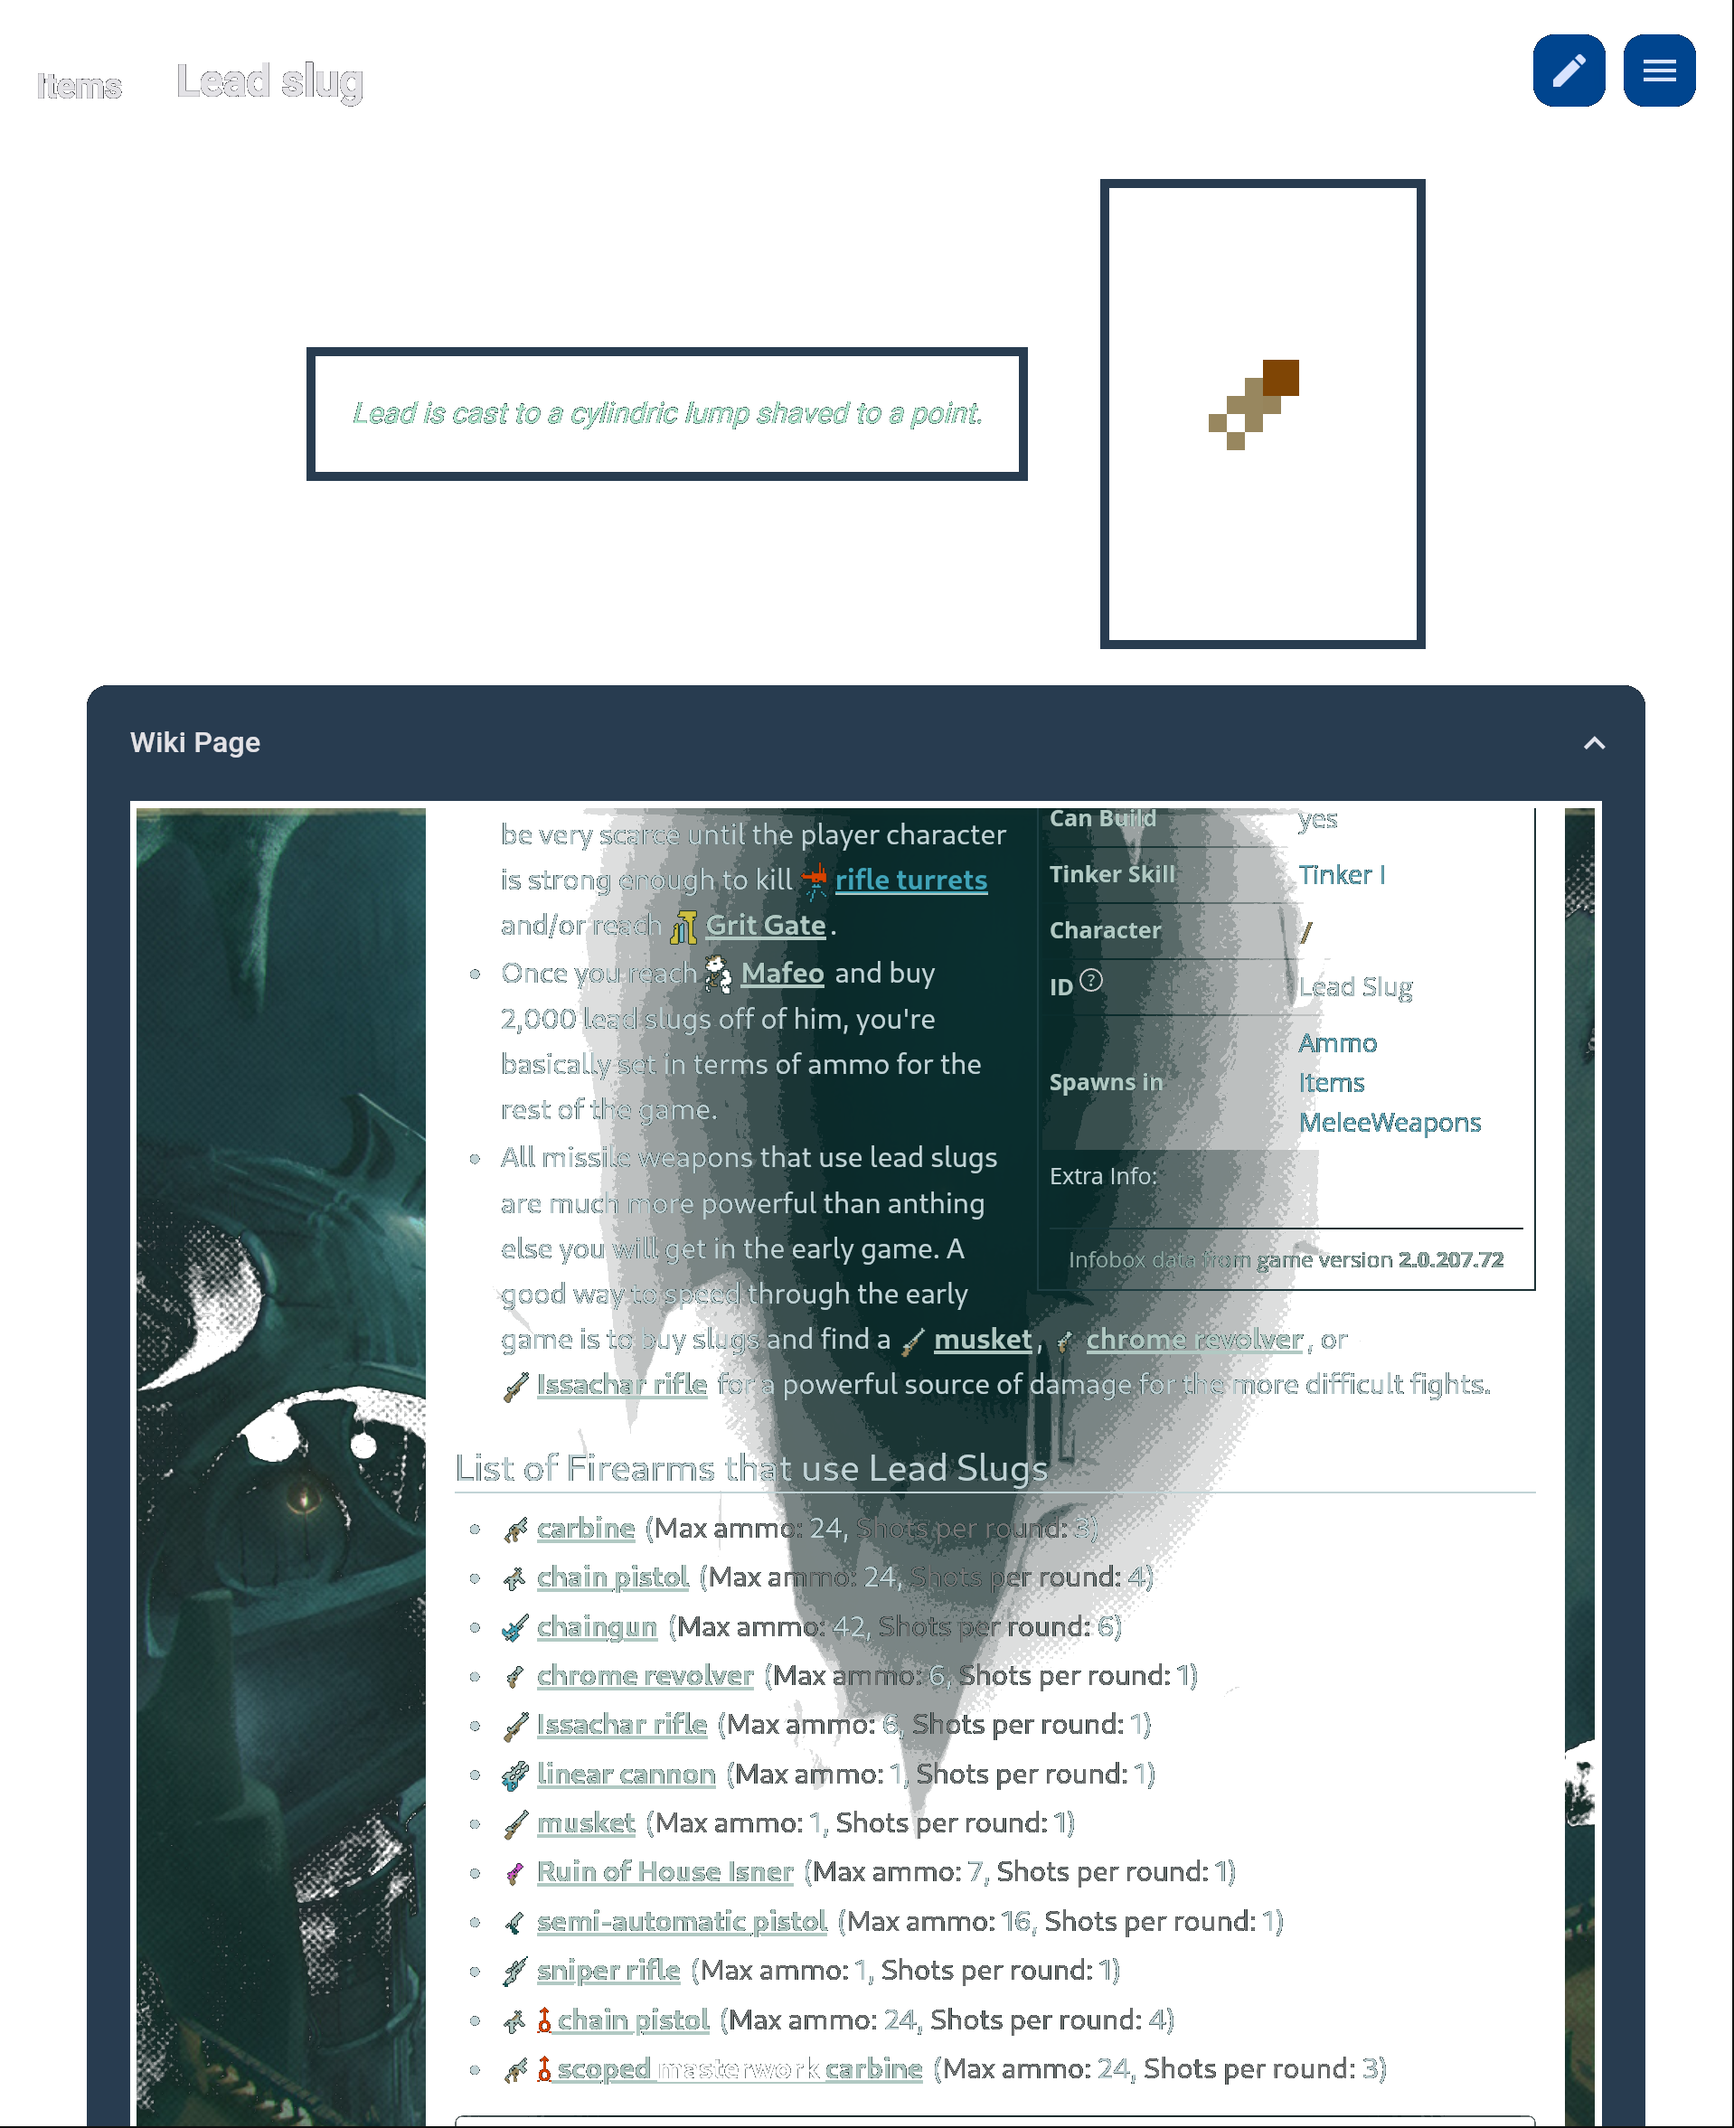
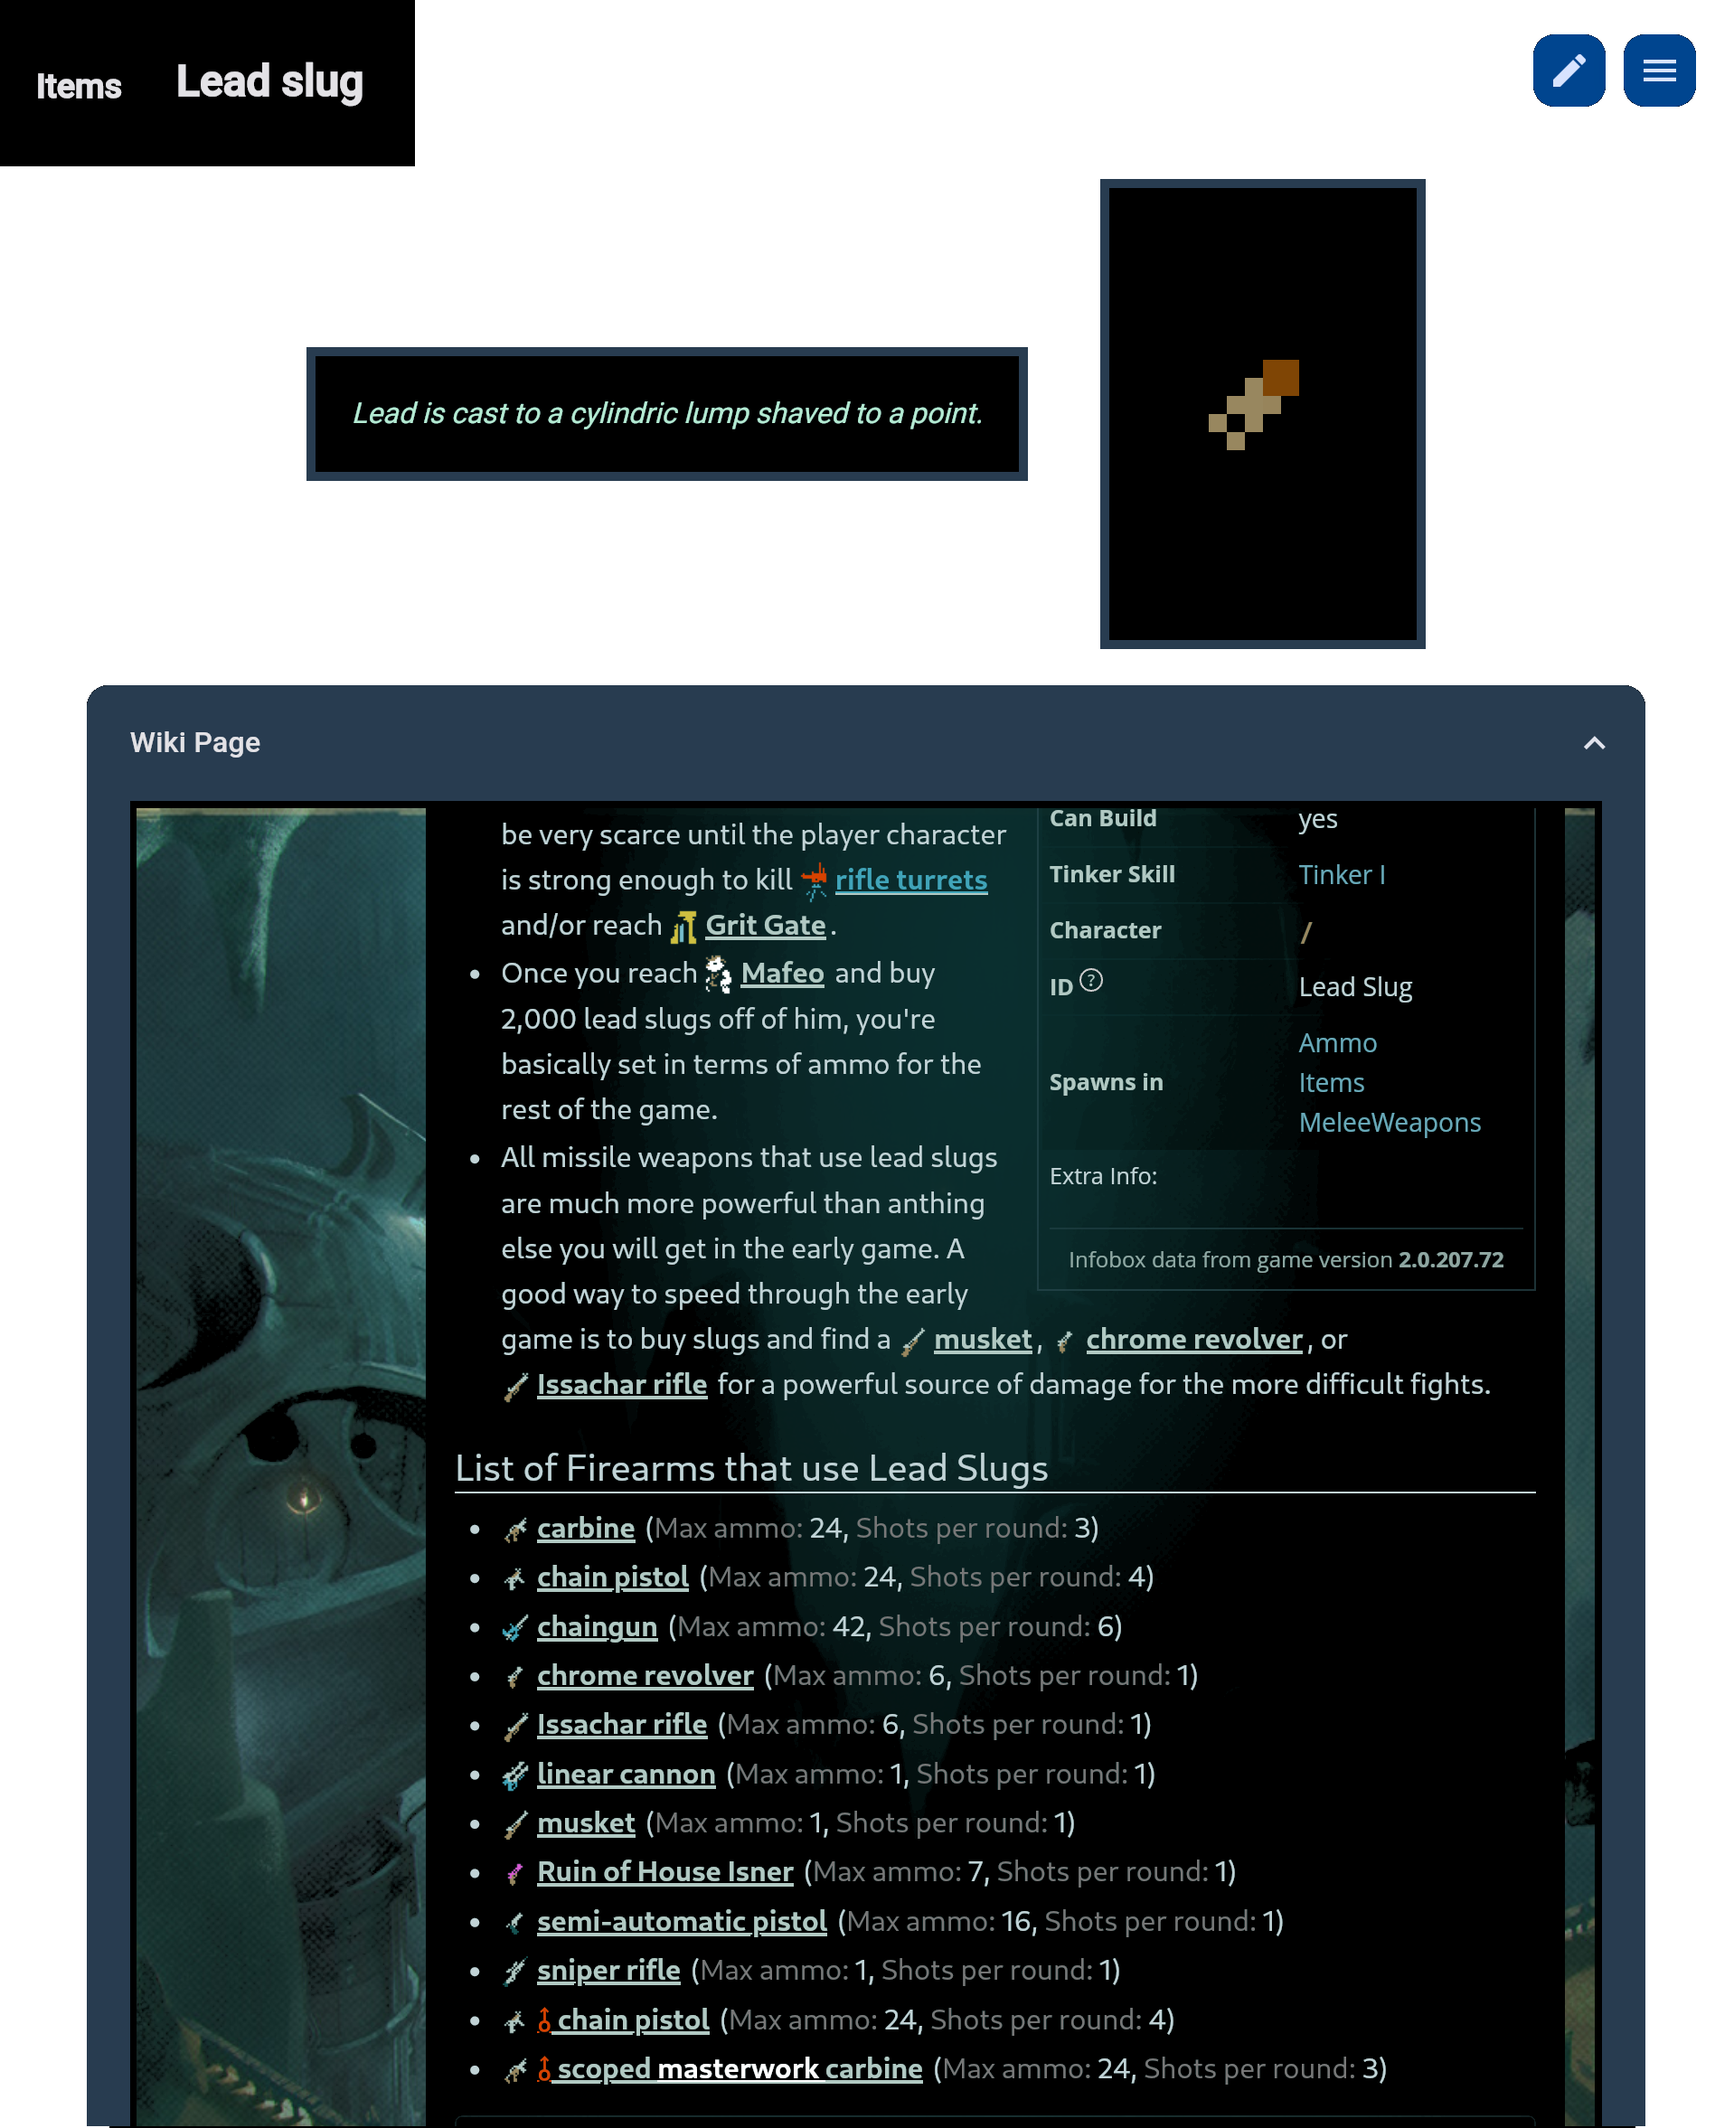
Add new transparent screenshots

diff --git a/README.md b/README.md
@@ -4,10 +4,10 @@ A stat generator/wiki browser for Caves of Qud that can create equivalent DnD st
 ## Features
 
 ### Creature Statblocks, Equipment and Feats
-![Puma Preview](images/puma_preview.png)
+![Puma Preview](images/puma_preview_transparent.png)
 
 ### Embedded Wiki Page for Reference
-![Lead Slug Preview](images/lead_slug.png)
+![Lead Slug Preview](images/lead_slug_transparent.png)
 
 ## More to do
 * Equipment stats (AC, damage, special effects)
